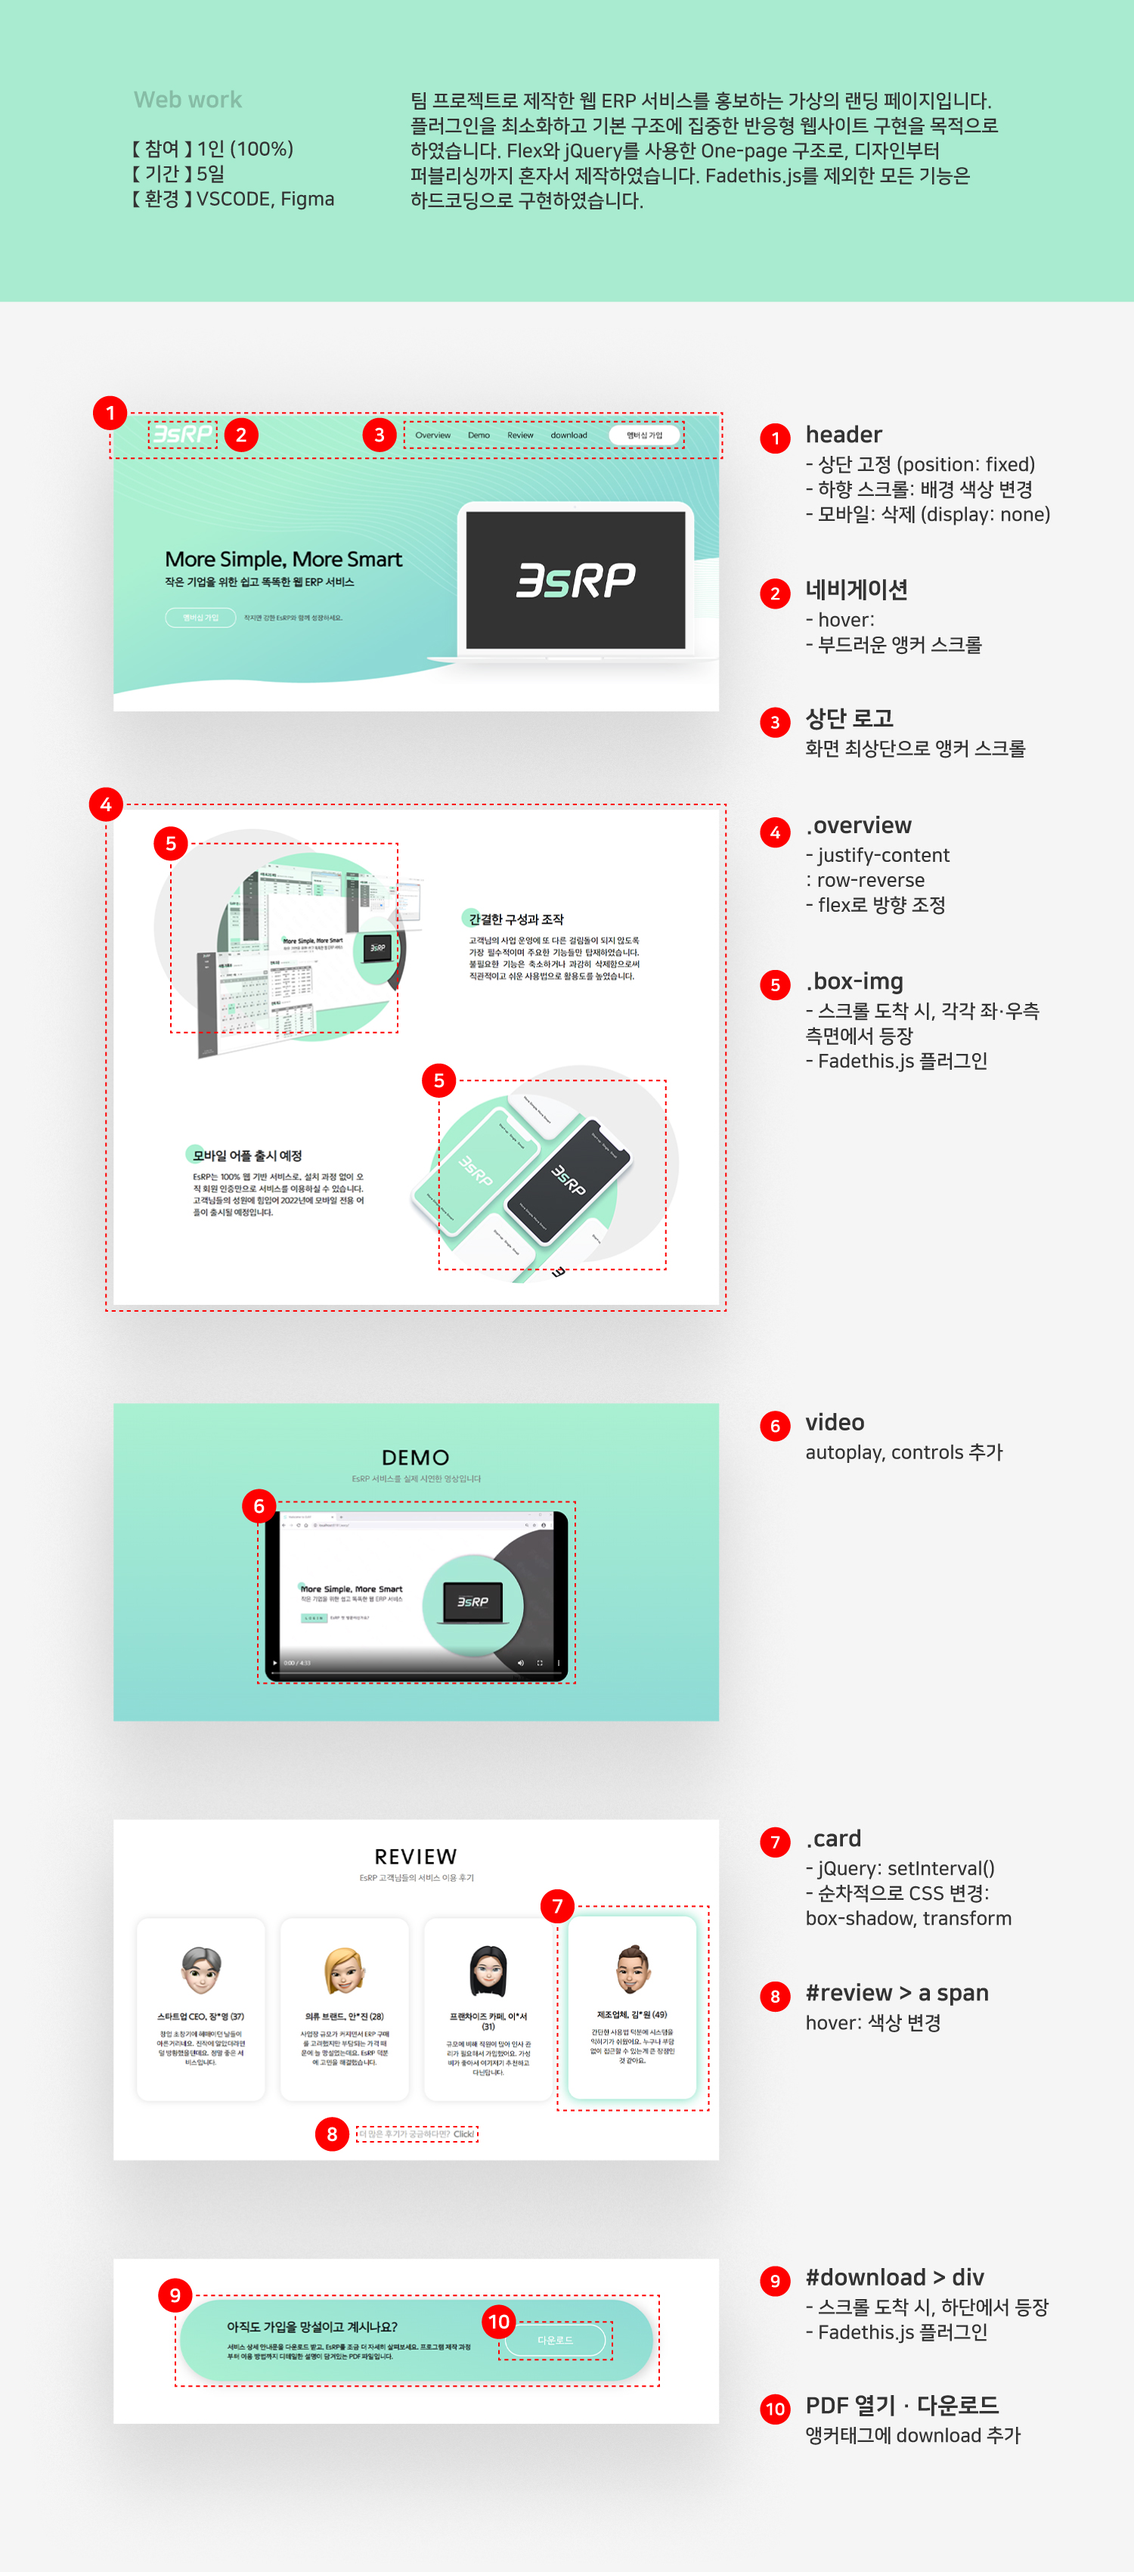
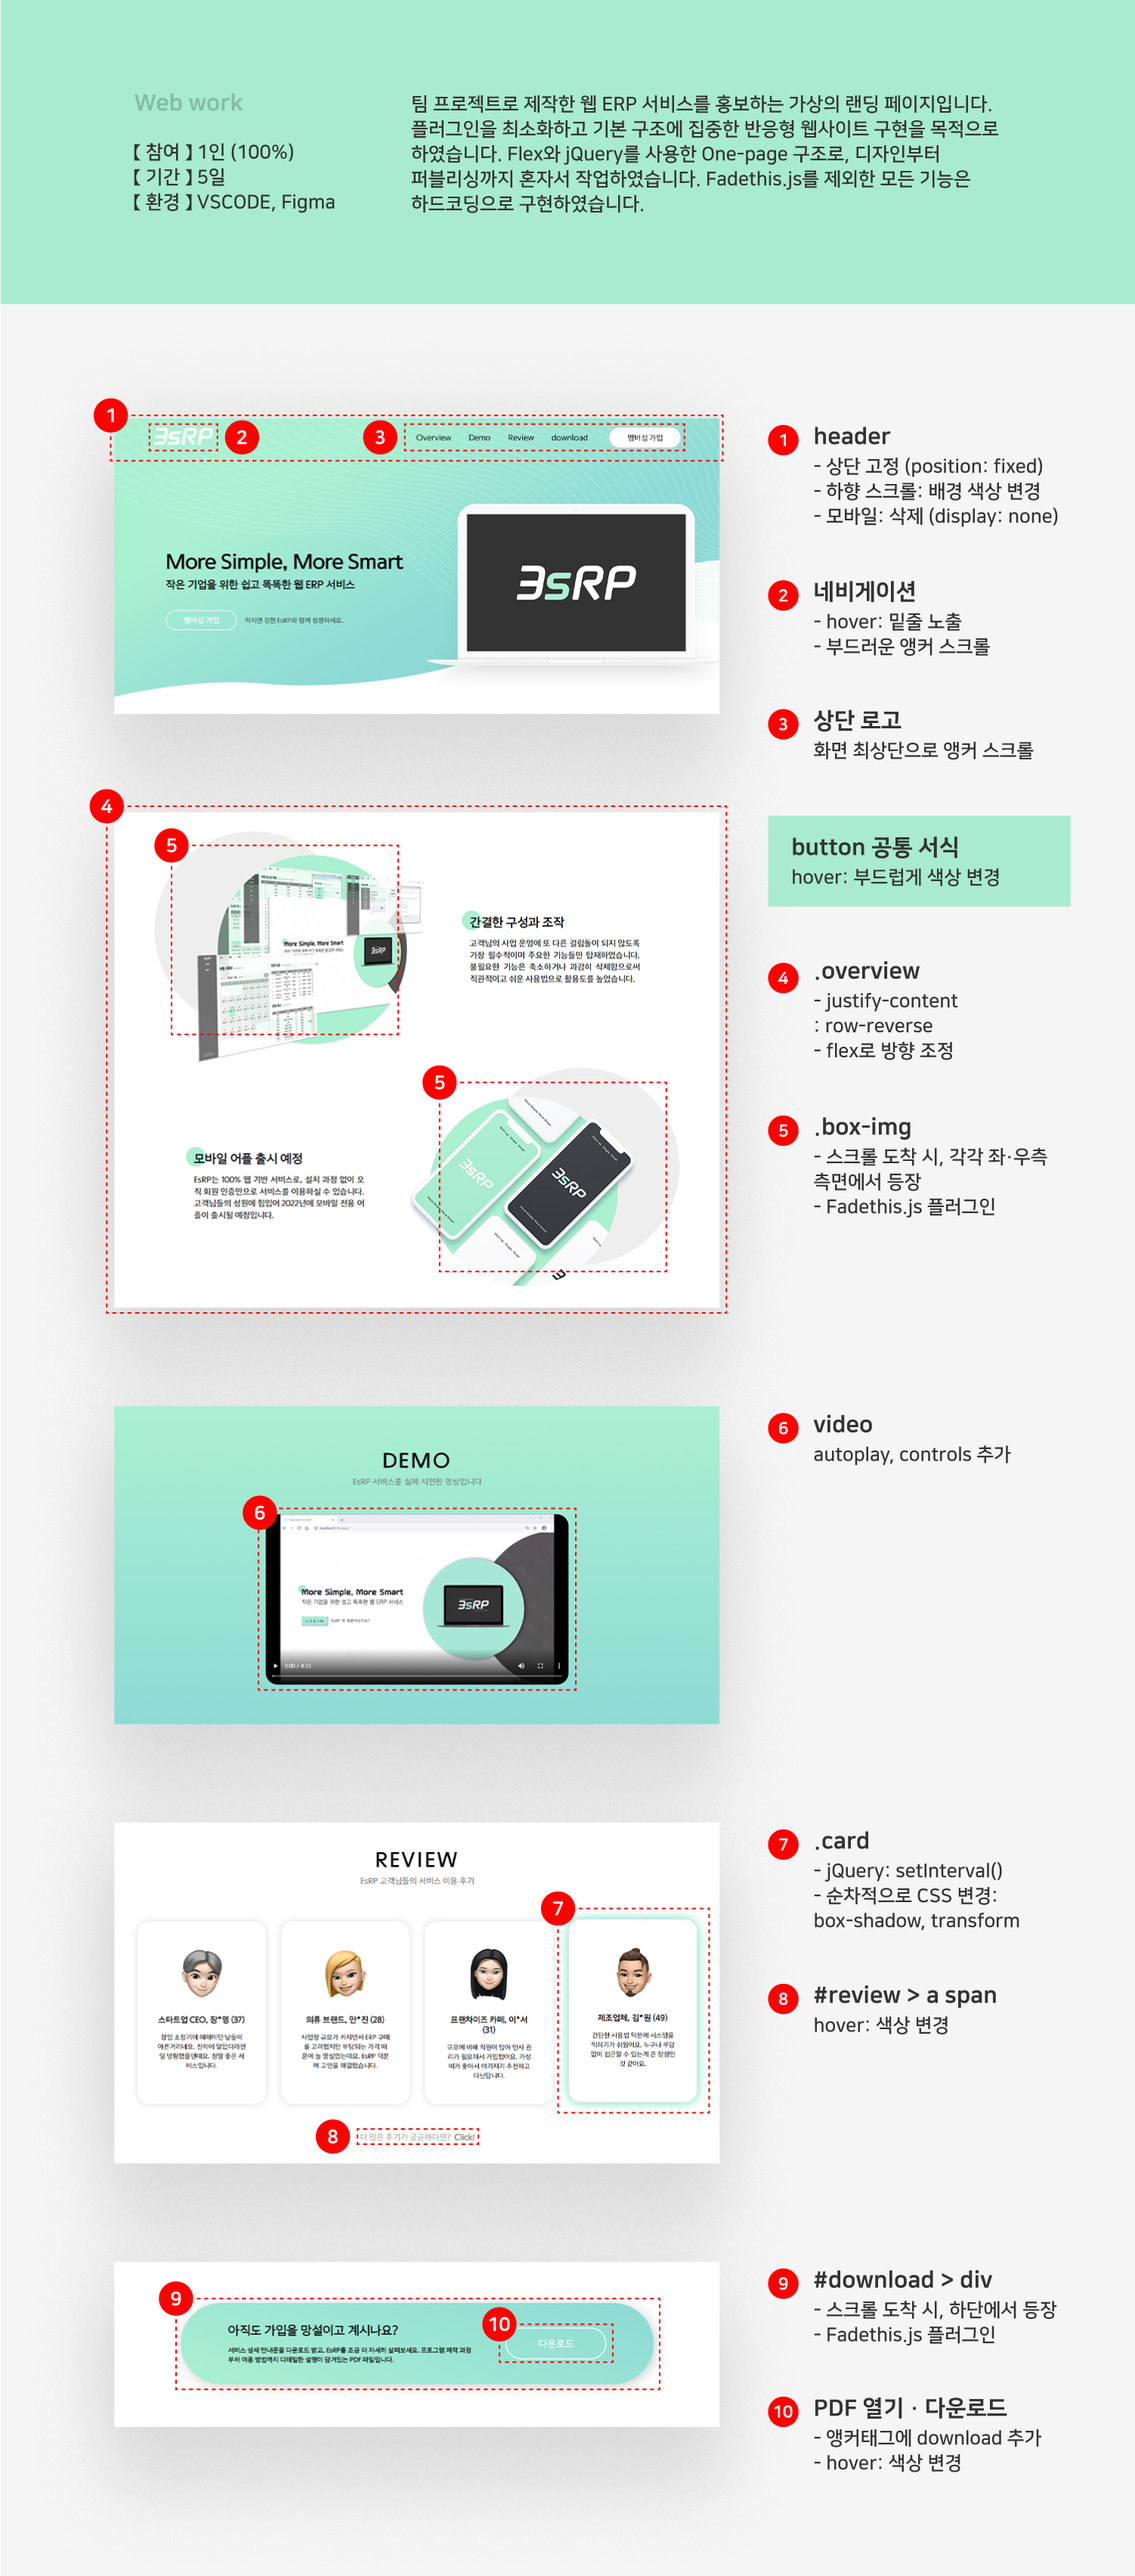
commit

diff --git a/resources/js/single.js b/resources/js/single.js
@@ -11,19 +11,19 @@ const data = [
     {
         num: 2,
         title: 'KKONDAE Test',
-        linkSite: 'https://project-esrp.netlify.app/',
+        linkSite: 'https://project-kkondae.netlify.app/',
         linkGit: 'https://project-esrp.netlify.app/',
         text: '키치한 컨셉의 꼰대력 테스트 사이트입니다. 부트스트랩을 활용하여 퍼블리싱하였습니다. 데이터는 바닐라JS로 핸들링하였고, 카카오톡 API를 활용한 공유 기능까지 구현하였습니다.',
-        colorBg: 'red',
+        colorBg: '#022fb3',
         colorBtn: '#fff'
     },
     {
         num: 3,
         title: 'Law Firm Website',
-        linkSite: 'https://project-esrp.netlify.app/',
+        linkSite: 'https://project-lawfirm.netlify.app/',
         linkGit: 'https://project-esrp.netlify.app/',
         text: '가상의 법무법인 홈페이지를 디자인하고 퍼블리싱하였습니다. jQuery를 이용하였고, Flex 속성을 이용한 반응형 웹사이트입니다. <b>\'고객센터 > 공지사항\'</b> 카테고리를 서브페이지로 확인하실 수 있습니다.',
-        colorBg: 'blue',
+        colorBg: '#b39d72',
         colorBtn: '#fff'
     },
 ]
@@ -75,11 +75,11 @@ $(document).on('click', '.container .item', function () {
         + data[idx].linkSite
         + '" style="color: '
         + data[idx].colorBtn
-        + '" target="_blank">사이트 바로가기</a><a href="'
+        + '" target="_blank"><i class="fas fa-arrow-alt-circle-right"></i>Visit site</a><a href="'
         + data[idx].linkGit
         + '" style="color: '
         + data[idx].colorBtn
-        + '" target="_blank">깃허브 둘러보기</a></div>'
+        + '" target="_blank"><i class="fab fa-github"></i>GitHub</a></div>'
     );
 
     // Open MODAL

diff --git a/resources/css/modal.css b/resources/css/modal.css
@@ -81,6 +81,7 @@
 
 .item .btn-move {
     display: flex;
+    /* flex-direction: column; */
     align-items: center;
     justify-content: center;
     width: 100%;
@@ -89,6 +90,16 @@
 
 .item .btn-move a {
     font-size: 1.5rem;
+    display: block;
+    margin: 0 50px;
+}
+
+.item .btn-move a i {
+    margin: 0 10px 0 0;
+}
+
+.item .btn-move a:hover{
+    text-decoration: underline;
 }
 
 /* !! 앵커태그 추가하는 형태로 변경 !! */
